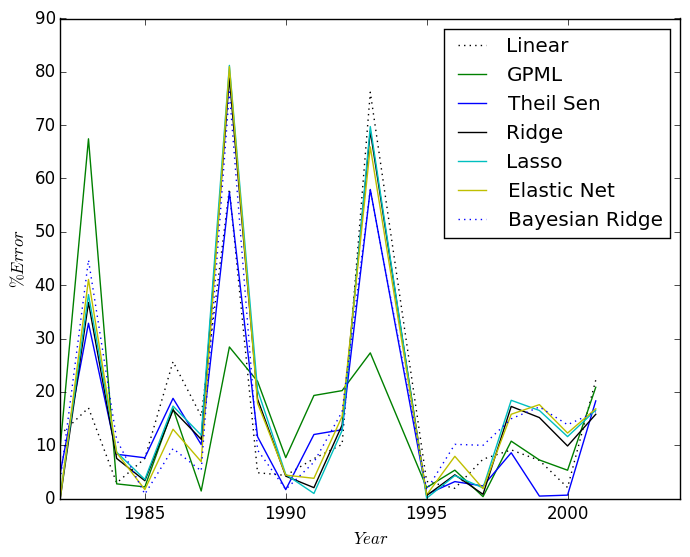
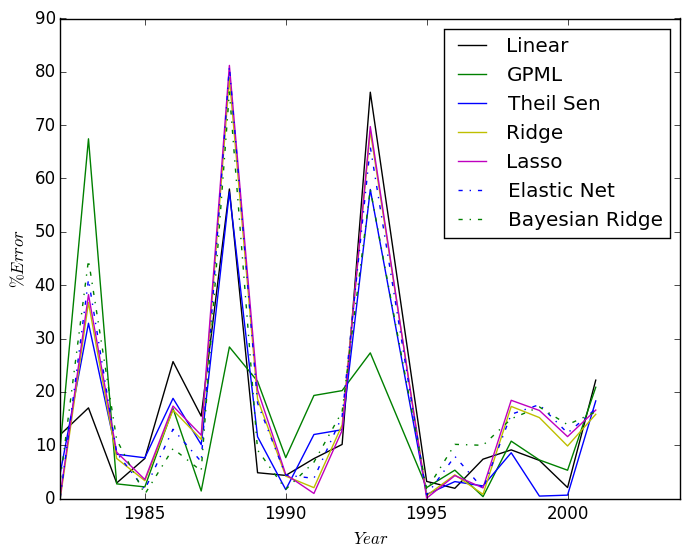
Formatting for the plots and looking at the average yields/errors

diff --git a/Project1/Crop_Yield_Forecasting.py b/Project1/Crop_Yield_Forecasting.py
@@ -37,7 +37,7 @@ def main():
   input  = input[input.index != 1994]
   output = output[output.index != 1994]
 
-  Predicted_Output = pd.DataFrame(index=output.index, columns=['Predicted Yield','Percent Error'])
+  Predicted_Output = pd.DataFrame(index=output.index, columns=[])
   for Year_In_Question in output.index:
 
     X = np.array(input[input.index != Year_In_Question])
@@ -114,36 +114,38 @@ def main():
 # print output
 
 # Plot the results!
+  legend_entry = ['k-', 'k-.', 'g-', 'b-', 'y-', 'm-', 'b-.', 'g-.' ]
 
   fig = pl.figure()
-  pl.plot(input.index, output['Crop Yield'], 'r-.', label=u'$Observations$')
+  pl.plot(input.index, output['Crop Yield'], 'r*-', linewidth=2.0, label=u'$Observations$')
 
-  pl.plot(input.index, output['Linear'], 'k:', label=u'Linear')
-# pl.plot(input.index, output['Polynomial'], 'm-', label=u'Polynomial p=2')
-  pl.plot(input.index, output['GPML'], 'g-', label=u'GPML')
-  pl.plot(input.index, output['TheilSen'], 'b-', label=u'Theil Sen')
-  pl.plot(input.index, output['Ridge'], 'k-', label=u'Ridge')
-  pl.plot(input.index, output['Lasso'], 'c-', label=u'Lasso')
-  pl.plot(input.index, output['Elastic'], 'y-', label=u'Elastic Net')
-  pl.plot(input.index, output['BayRidge'], 'b:', label=u'Bayesian Ridge')
+  pl.plot(input.index, output['Linear'], legend_entry[0], label=u'Linear')
+# pl.plot(input.index, output['Polynomial'], legend_entry[1], label=u'Polynomial p=2')
+  pl.plot(input.index, output['GPML'], legend_entry[2], label=u'GPML')
+  pl.plot(input.index, output['TheilSen'], legend_entry[3], label=u'Theil Sen')
+  pl.plot(input.index, output['Ridge'], legend_entry[4], label=u'Ridge')
+  pl.plot(input.index, output['Lasso'], legend_entry[5], label=u'Lasso')
+  pl.plot(input.index, output['Elastic'], legend_entry[6], label=u'Elastic Net')
+  pl.plot(input.index, output['BayRidge'], legend_entry[7], label=u'Bayesian Ridge')
 
   pl.xlabel('$Year$')
   pl.ylabel('$Crop Yield$')
   pl.xlim(1982, 2004)
+  pl.ylim(70, 160)
   pl.legend(loc='best')
   pl.savefig('Crop_Yield_Prediciton.png', bbox_inches='tight')
   pl.show()
 
 
   fig = pl.figure()
-  pl.plot(input.index, output['Linear Percent Error'], 'k:', label=u'Linear')
-# pl.plot(input.index, output['Polynomial Percent Error'], 'm-', label=u'Polynomial p=2')
-  pl.plot(input.index, output['GPML Percent Error'], 'g-', label=u'GPML')
-  pl.plot(input.index, output['TheilSen Percent Error'], 'b-', label=u'Theil Sen')
-  pl.plot(input.index, output['Ridge Percent Error'], 'k-', label=u'Ridge')
-  pl.plot(input.index, output['Lasso Percent Error'], 'c-', label=u'Lasso')
-  pl.plot(input.index, output['Elastic Percent Error'], 'y-', label=u'Elastic Net')
-  pl.plot(input.index, output['BayRidge Percent Error'], 'b:', label=u'Bayesian Ridge')
+  pl.plot(input.index, output['Linear Percent Error'], legend_entry[0], label=u'Linear')
+# pl.plot(input.index, output['Polynomial Percent Error'], legend_entry[1], label=u'Polynomial p=2')
+  pl.plot(input.index, output['GPML Percent Error'], legend_entry[2], label=u'GPML')
+  pl.plot(input.index, output['TheilSen Percent Error'], legend_entry[3], label=u'Theil Sen')
+  pl.plot(input.index, output['Ridge Percent Error'], legend_entry[4], label=u'Ridge')
+  pl.plot(input.index, output['Lasso Percent Error'], legend_entry[5], label=u'Lasso')
+  pl.plot(input.index, output['Elastic Percent Error'], legend_entry[6], label=u'Elastic Net')
+  pl.plot(input.index, output['BayRidge Percent Error'], legend_entry[7], label=u'Bayesian Ridge')
 
   pl.xlabel('$Year$')
   pl.ylabel('$\% Error$')
@@ -152,6 +154,7 @@ def main():
   pl.savefig('Crop_Yield_Percent_Error.png', bbox_inches='tight')
   pl.show()
 
+  print np.mean(output)
 
 
 if __name__ == '__main__':
